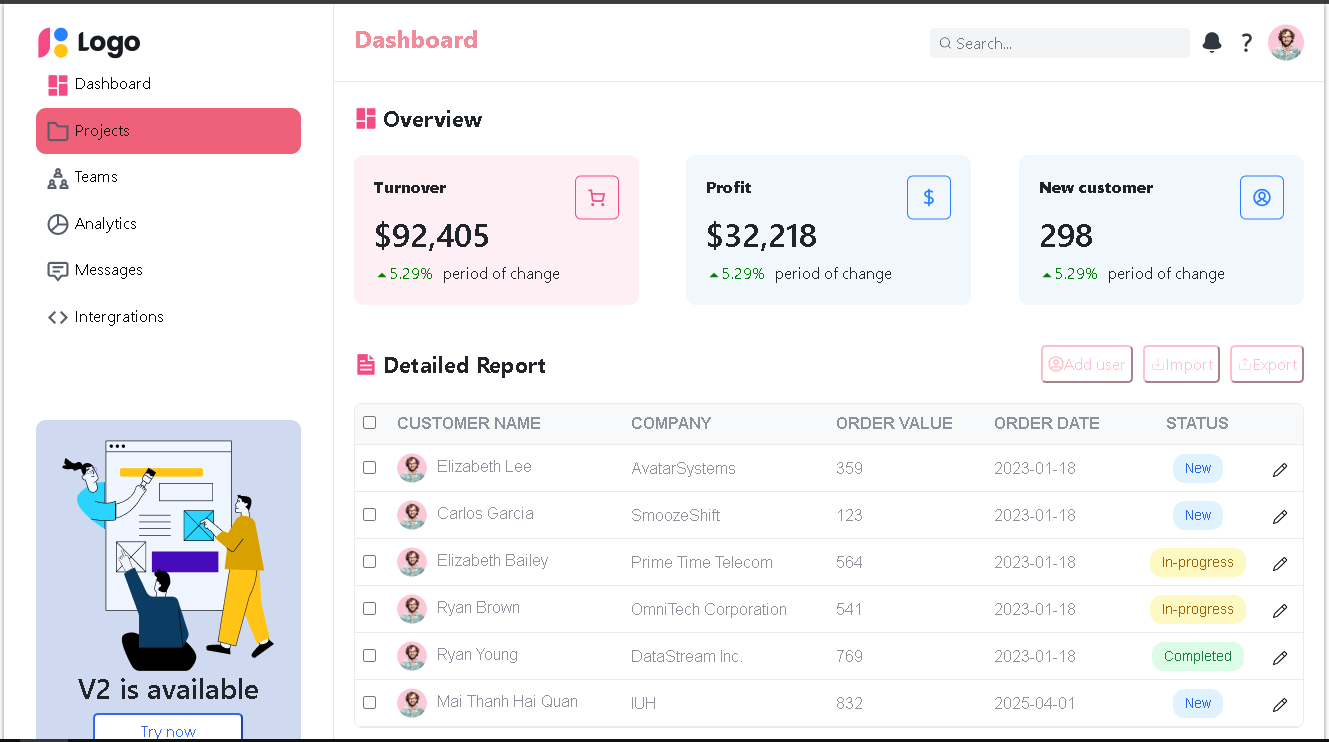
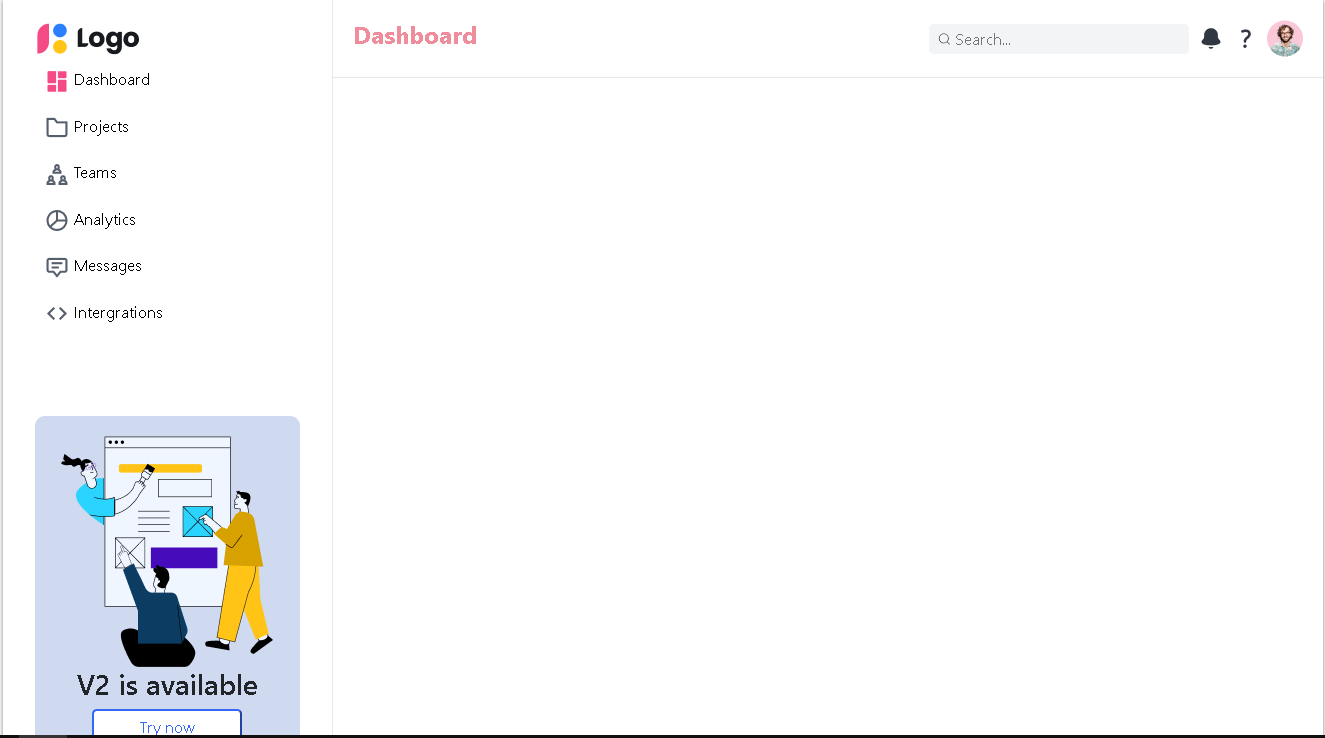
1. layout sua lai hinh anh

diff --git a/src/components/Main.jsx b/src/components/Main.jsx
@@ -5,8 +5,8 @@ import DetailedReport from "./DetailedReport";
 const Main = () => {
   return (
     <div className="container-main">
-      <Overview />
-      <DetailedReport />
+      {/* <Overview /> */}
+      {/* <DetailedReport /> */}
     </div>
   );
 };
